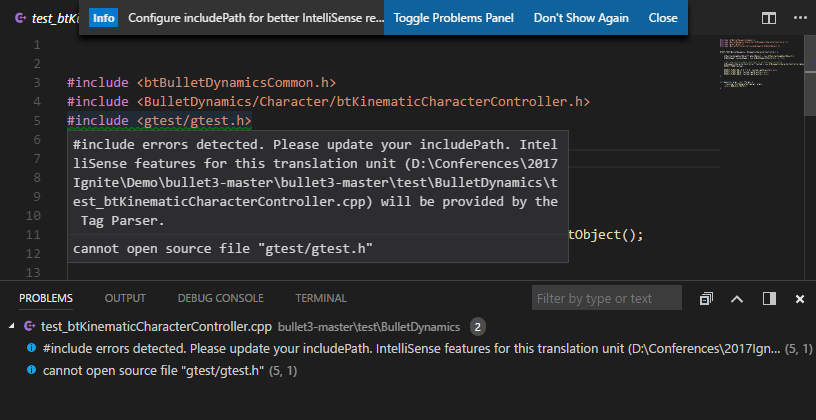
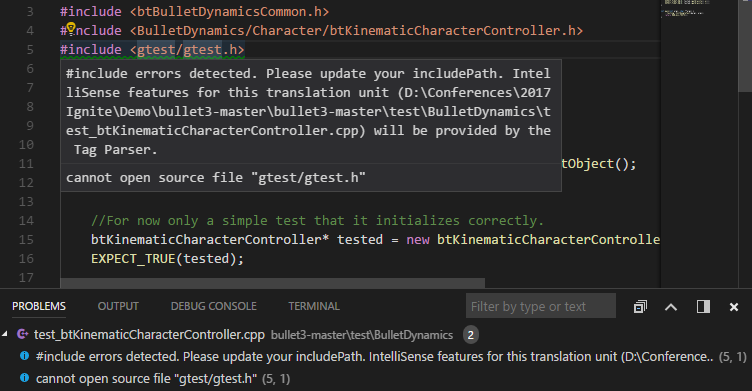
updated doc and screenshots

diff --git a/Documentation/Getting started.md b/Documentation/Getting started.md
@@ -1,14 +1,12 @@
-# Getting started
+# Configuring includePath for better IntelliSense results
 
-## Configuring includePath for better IntelliSense results
+This page describes how to configure include paths for folders containing C or C++ files to get the full IntelliSense experience. If you're seeing the following message when opening a folder in VS Code, it means the C++ IntelliSense engine needs additional information about the paths in which your symbols are located.
 
-This page describes how to configure include paths for folders containing C or C++ files to get better IntelliSense experience. If you're seeing the following message when opening a folder in VS Code, it means the C++ IntelliSense engine needs additional information about the paths in which your symbols are located.
+![Configure includePath for better IntelliSense](https://github.com/Microsoft/vscode-cpptools/raw/master/Images/configure%20includepath.jpg)
 
-![Configure includePath for better IntelliSense](https://github.com/Microsoft/vscode-cpptools/raw/master/Images/Configure%20includePath.PNG)
+## Where to configure the include paths
 
-#### Where to configure the include paths
-
- When you open a folder, the extension will attempt to locate your system headers based on your operating system, but it does not know about any auxiliary libraries that your project depends on. You can specify the remaining paths by either using the `"C/Cpp: Edit Configurations"` command in the command palette, or by selecting `"Edit "includePath" setting"` in the lightbulb menu (see the screenshot below). The quickiest way to locate the lightbulb is to scroll to the top of the source file and click on any green squiggle, which usually shows up at the first line in the file).
+ When you open a folder, the extension will attempt to locate your system headers based on your operating system, but it does not know about any auxiliary libraries that your project depends on. You can specify the remaining paths by either using the `"C/Cpp: Edit Configurations"` command in the command palette, or by selecting `"Edit "includePath" setting"` in the lightbulb menu (see the screenshot below). The quickiest way to locate the lightbulb is to scroll to the top of the source file and click on any green squiggle, which usually shows up at the first line in the file.
 
  ![lightbulb menu "Edit "includePath" setting"](https://github.com/Microsoft/vscode-cpptools/raw/master/Images/Lightbulb.png)
 
@@ -16,22 +14,26 @@ This creates or opens a file called **c_cpp_properties.json** in the .vscode dir
 
 ![c_cpp_properties file snippet](https://github.com/Microsoft/vscode-cpptools/raw/ronglu-edit/Images/c_cpp_properties%20file.PNG)
 
-If your build system is able to produce a compile_commands.json file, which can be auto-generated by build systems such as CMake and Ninja, the extension can get the information for the `"includePath"` and `"defines"` from that.  Set the `"compileCommands"` property to the full path to your compile_commands.json file and the extension will use that instead of the `"includes"` and `"defines"` properties for IntelliSense. 
-![use compileCommands setting](https://github.com/Microsoft/vscode-cpptools/raw/ronglu-edit/Images/compile_commands.png)
-
-#### Understand which headers can't be located
-
-To figure out which headers you need to specify paths for, you can either hover over the green squiggles to see the message in the tooltip, or open the Problems window to see the errors listed there. The error messsages show which headers the IntelliSense engine is unable to open - it could be the headers that are being included directly or the headers that the included headers are dependent on. The following screenshot shows an example of the error message being shown in the tooltip as well as the Problems window.
+You can either hover over the green squiggles to see the message in the tooltip, or open the Problems window to understand which headers the IntelliSense engine is unable to open.
 
 ![include error message](https://github.com/Microsoft/vscode-cpptools/raw/master/Images/Include%20errors.png)
 
-#### Use the lightbulb suggestions to auto-resolve includePath
+## Tips for setting up include paths quickly
+
+Manually configuring includes and defines could be time-consuming and sometimes cumbersome. It is recommended to try the following techniques to get the include paths setup automatically before resorting to manually configuring in the **c_cpp_properties.json** file.
+
+#### 1. Use the lightbulb suggestions to auto-resolve includePath
 
 You can also leverage the lightbulb path suggestions lightbulb to auto-resolve the included file. When you open a folder, the extension will **recursively** search for potential include paths that match the header files your code is using based on the paths set by the `"browse.path"` setting in **c_cpp_properties.json**. Click on the green squiggles under #include statements and a lightbulb will appear and offer suggestions of paths that will allow IntelliSense to resolve the included file.
 
 ![lightbulb suggestions](https://github.com/Microsoft/vscode-cpptools/raw/ronglu-edit/Images/lightbulb%20suggestion.png)
 
-#### Verify the include paths are correctly resolved
+#### 2. Use compile_commands.json file to supply includePaths and defines information
+
+If your build system is able to produce a compile_commands.json file, which can be auto-generated by build systems such as CMake and Ninja, the extension can get the information for the `"includePath"` and `"defines"` from that.  Set the `"compileCommands"` property to the full path to your compile_commands.json file and the extension will use that instead of the `"includes"` and `"defines"` properties for IntelliSense. 
+![use compileCommands setting](https://github.com/Microsoft/vscode-cpptools/raw/ronglu-edit/Images/compile_commands.png)
+
+## Verify the include paths are correctly resolved
 
 There are two ways to verify that the include paths are correctly resolved:
 
@@ -40,7 +42,7 @@ There are two ways to verify that the include paths are correctly resolved:
 
 This indicates that the IntelliSense engine has got the include paths resolved so you can start enjoying the full IntelliSense for your C or C++ code for the current translation unit. Note that you may still see errors on other files if they belong to a different translation unit that requires additional include paths to be configured.
 
-#### See Also
+## See Also
 
 [IntelliSense engines](https://github.com/Microsoft/vscode-cpptools/blob/ronglu-edit/Documentation/LanguageServer/IntelliSense%20engine.md)
 
